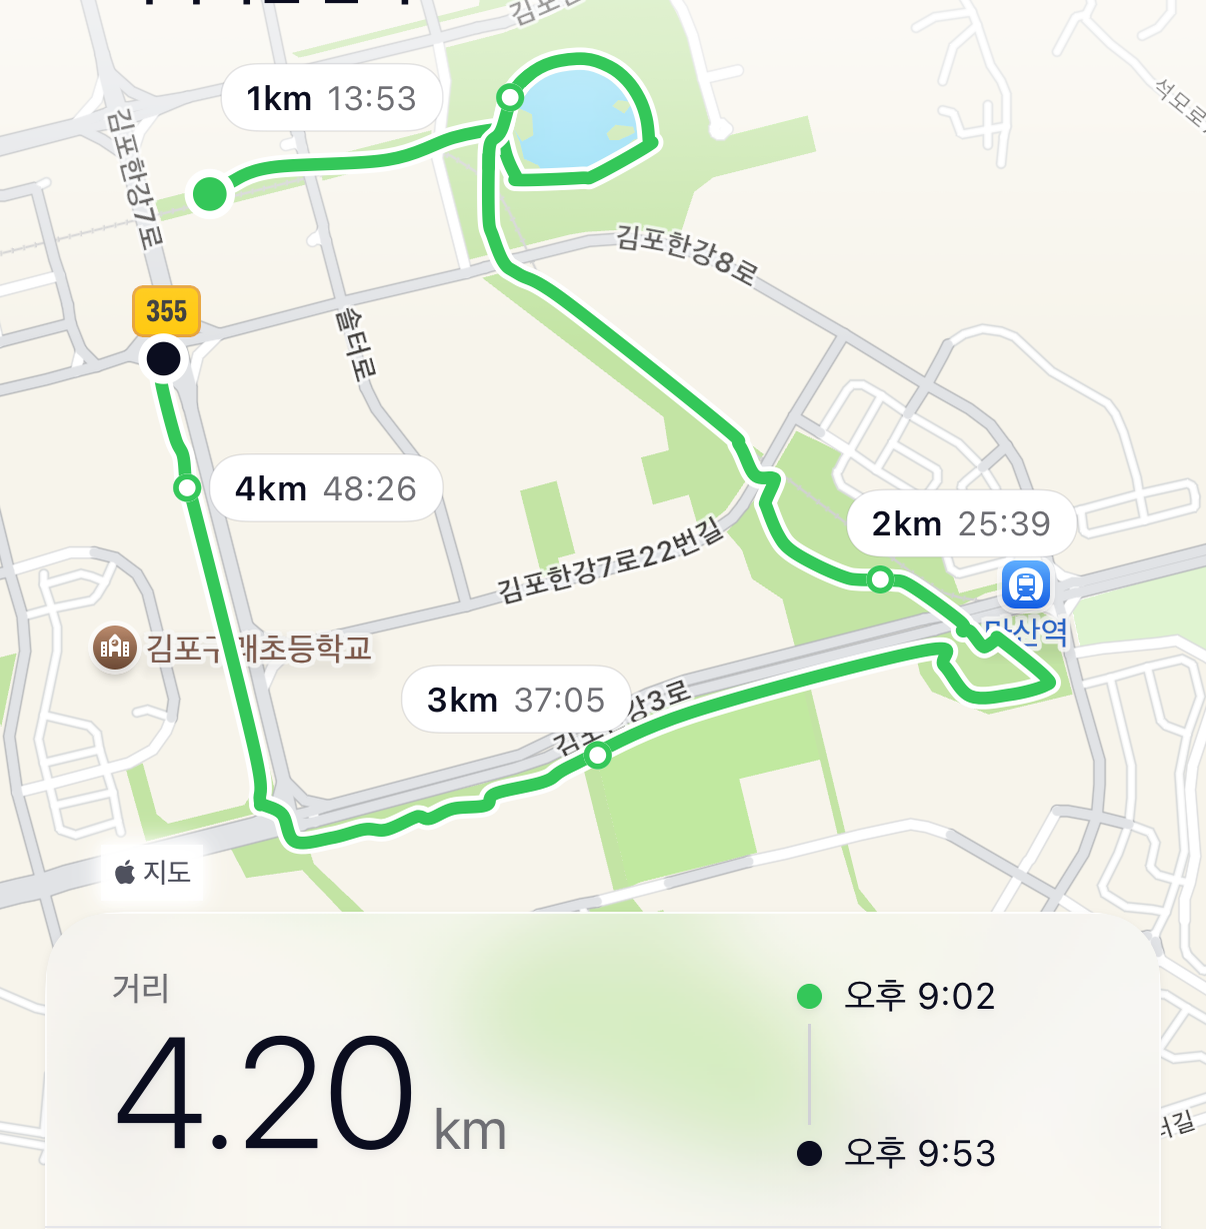
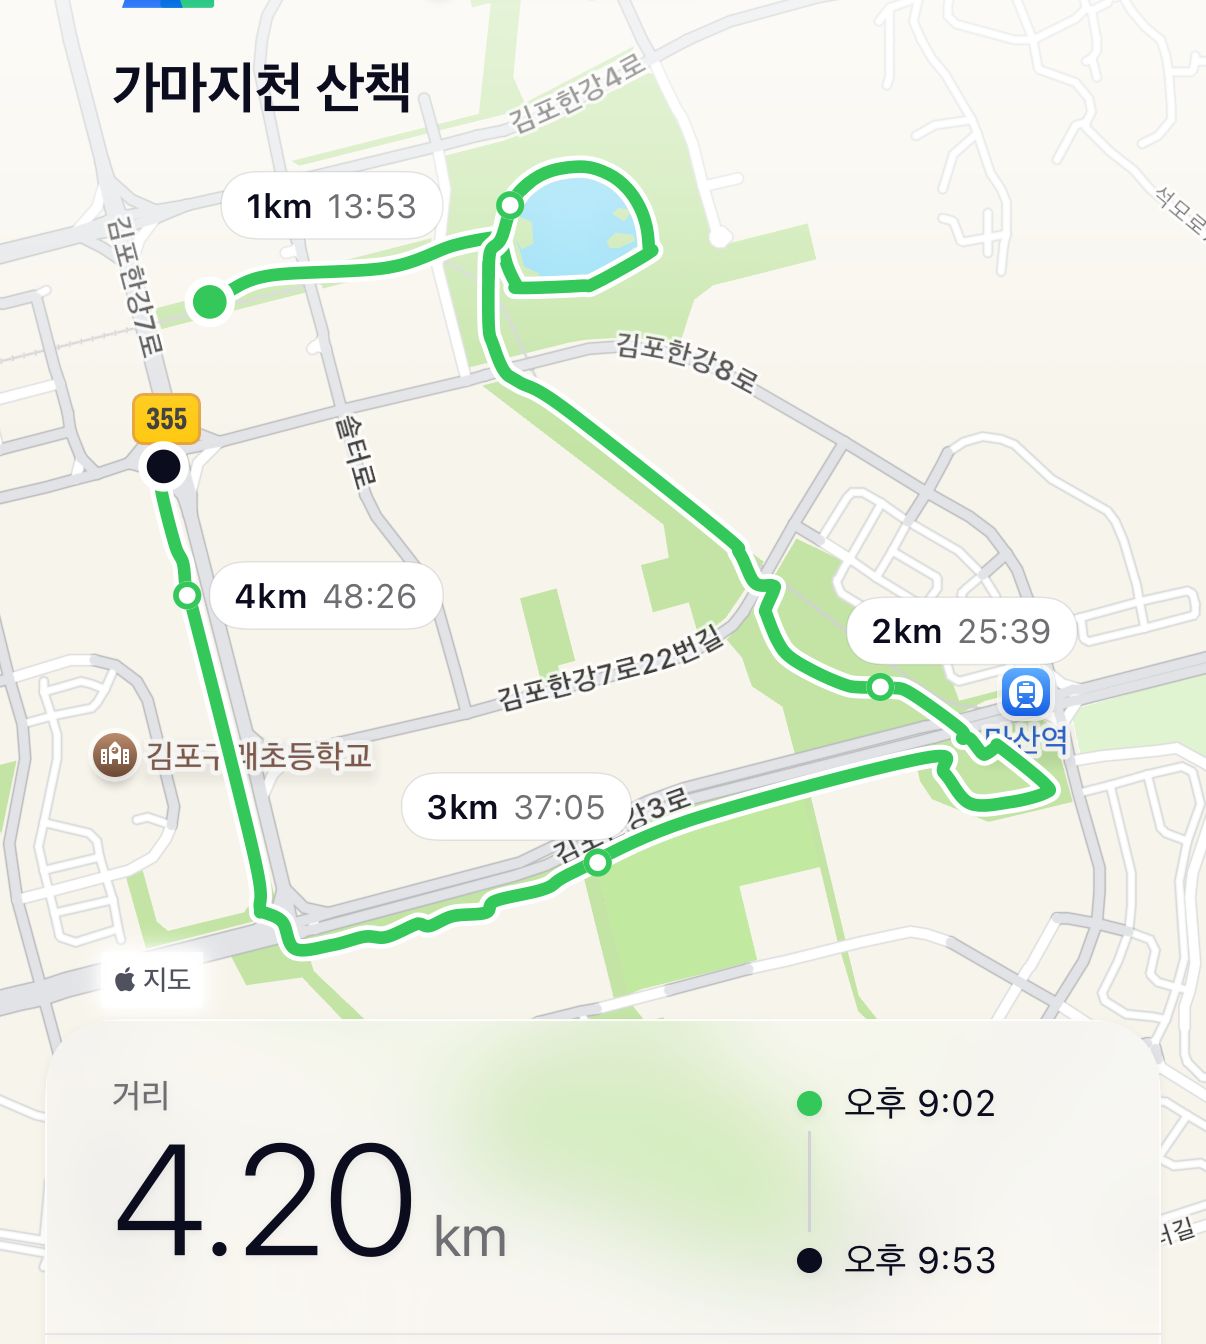
fix(ios): v17 preview crop SoT — 314:350, SG/SC +230, DC +177
Raise settings preview aspect so name pill clears 1km 13:53 on Simple
Grey/Color while primary glass stays full; Data Card bias keeps start
dot and two metric rows. Preview thumbs only; save path untouched.

diff --git a/sansan/ImageSaveStylePager.swift b/sansan/ImageSaveStylePager.swift
@@ -4,10 +4,11 @@
 //
 //  Settings: horizontal pages + bottom pill-spring dots (light-mode tokens).
 //  Swipe/dots change VIEWED page only — selection is preference storage.
-//  v16 JW: shared crop SoT 314∶320 (raised H so SC/SG glass + DC rows unclipped).
-//  NO card shadow/bg. Dots BELOW preview. Title TL + Morph TR; thumbs pre-framed
-//  per crop table (Android copies same numbers). 「선택 완료」 saved-only; footer
-//  follows VIEWED. Preview thumbs only — save/export path untouched.
+//  v17 JW: shared crop SoT 314∶350 (raise H; SC/SG bias so name pill clears
+//  1km 13:53; DC bias keeps start dot + primary rows). NO card shadow/bg.
+//  Dots BELOW preview. Title TL + Morph TR; thumbs pre-framed per crop table
+//  (Android copies same numbers). 「선택 완료」 saved-only; footer follows VIEWED.
+//  Preview thumbs only — save/export path untouched.
 //
 
 #if os(iOS)
@@ -29,10 +30,10 @@ private enum ImageSaveStylePagerTokens {
     static let dotSize: CGFloat = 8
     static let pillWidth: CGFloat = 20
     static let gap: CGFloat = 14
-    /// Settings preview framing — shared crop SoT with Android (v16).
-    /// Aspect **314∶320**; at list width ≈ 370pt → card height ≈ **377pt**.
+    /// Settings preview framing — shared crop SoT with Android (v17).
+    /// Aspect **314∶350**; at list width ≈ 370pt → card height ≈ **412pt**.
     static let cardAspectWidth: CGFloat = 314
-    static let cardAspectHeight: CGFloat = 320
+    static let cardAspectHeight: CGFloat = 350
     static let pageCorner: CGFloat = 24
     /// Overlaid on preview (Pagination Dots slide caption: 16 / 14).
     static let titleSize: CGFloat = 17
@@ -232,7 +233,7 @@ struct ImageSaveStylePager: View {
     @ViewBuilder
     private func pageImage(for style: HikingRecordImageSaveStyle) -> some View {
         if let image = ImageSaveStylePreviewImages.image(for: style) {
-            // Resources are pre-framed 314∶320 per shared crop SoT (see v16 CROP_SOT).
+            // Resources are pre-framed 314∶350 per shared crop SoT (see v17 CROP_SOT).
             // Fit (not Fill) so matching-aspect thumbs are not re-cropped at runtime.
             Image(uiImage: image)
                 .resizable()
